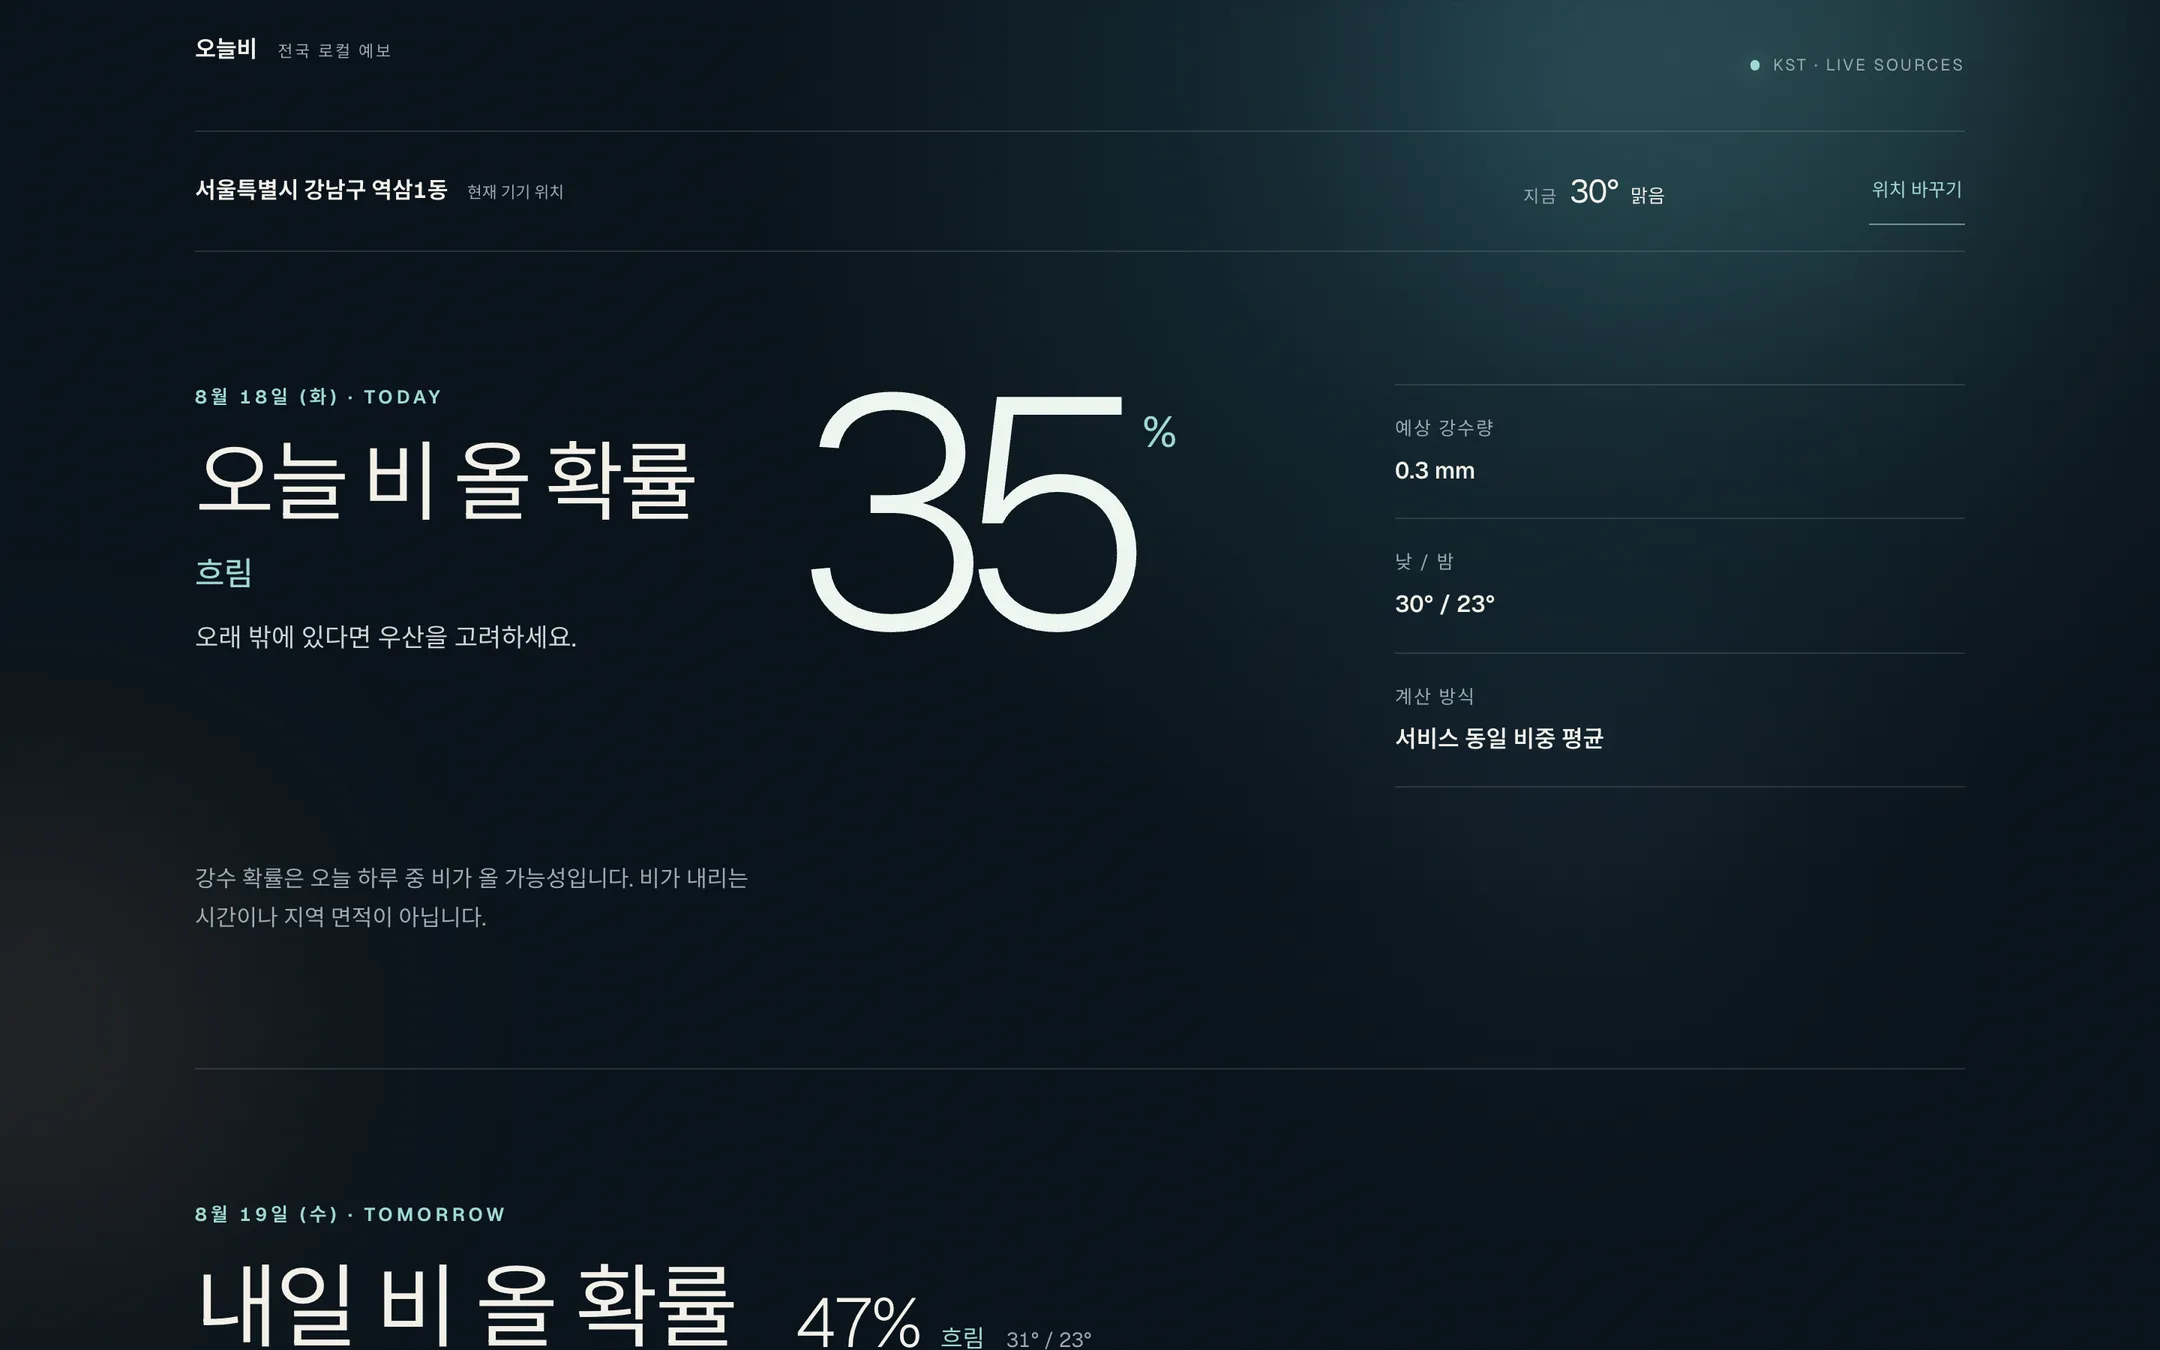
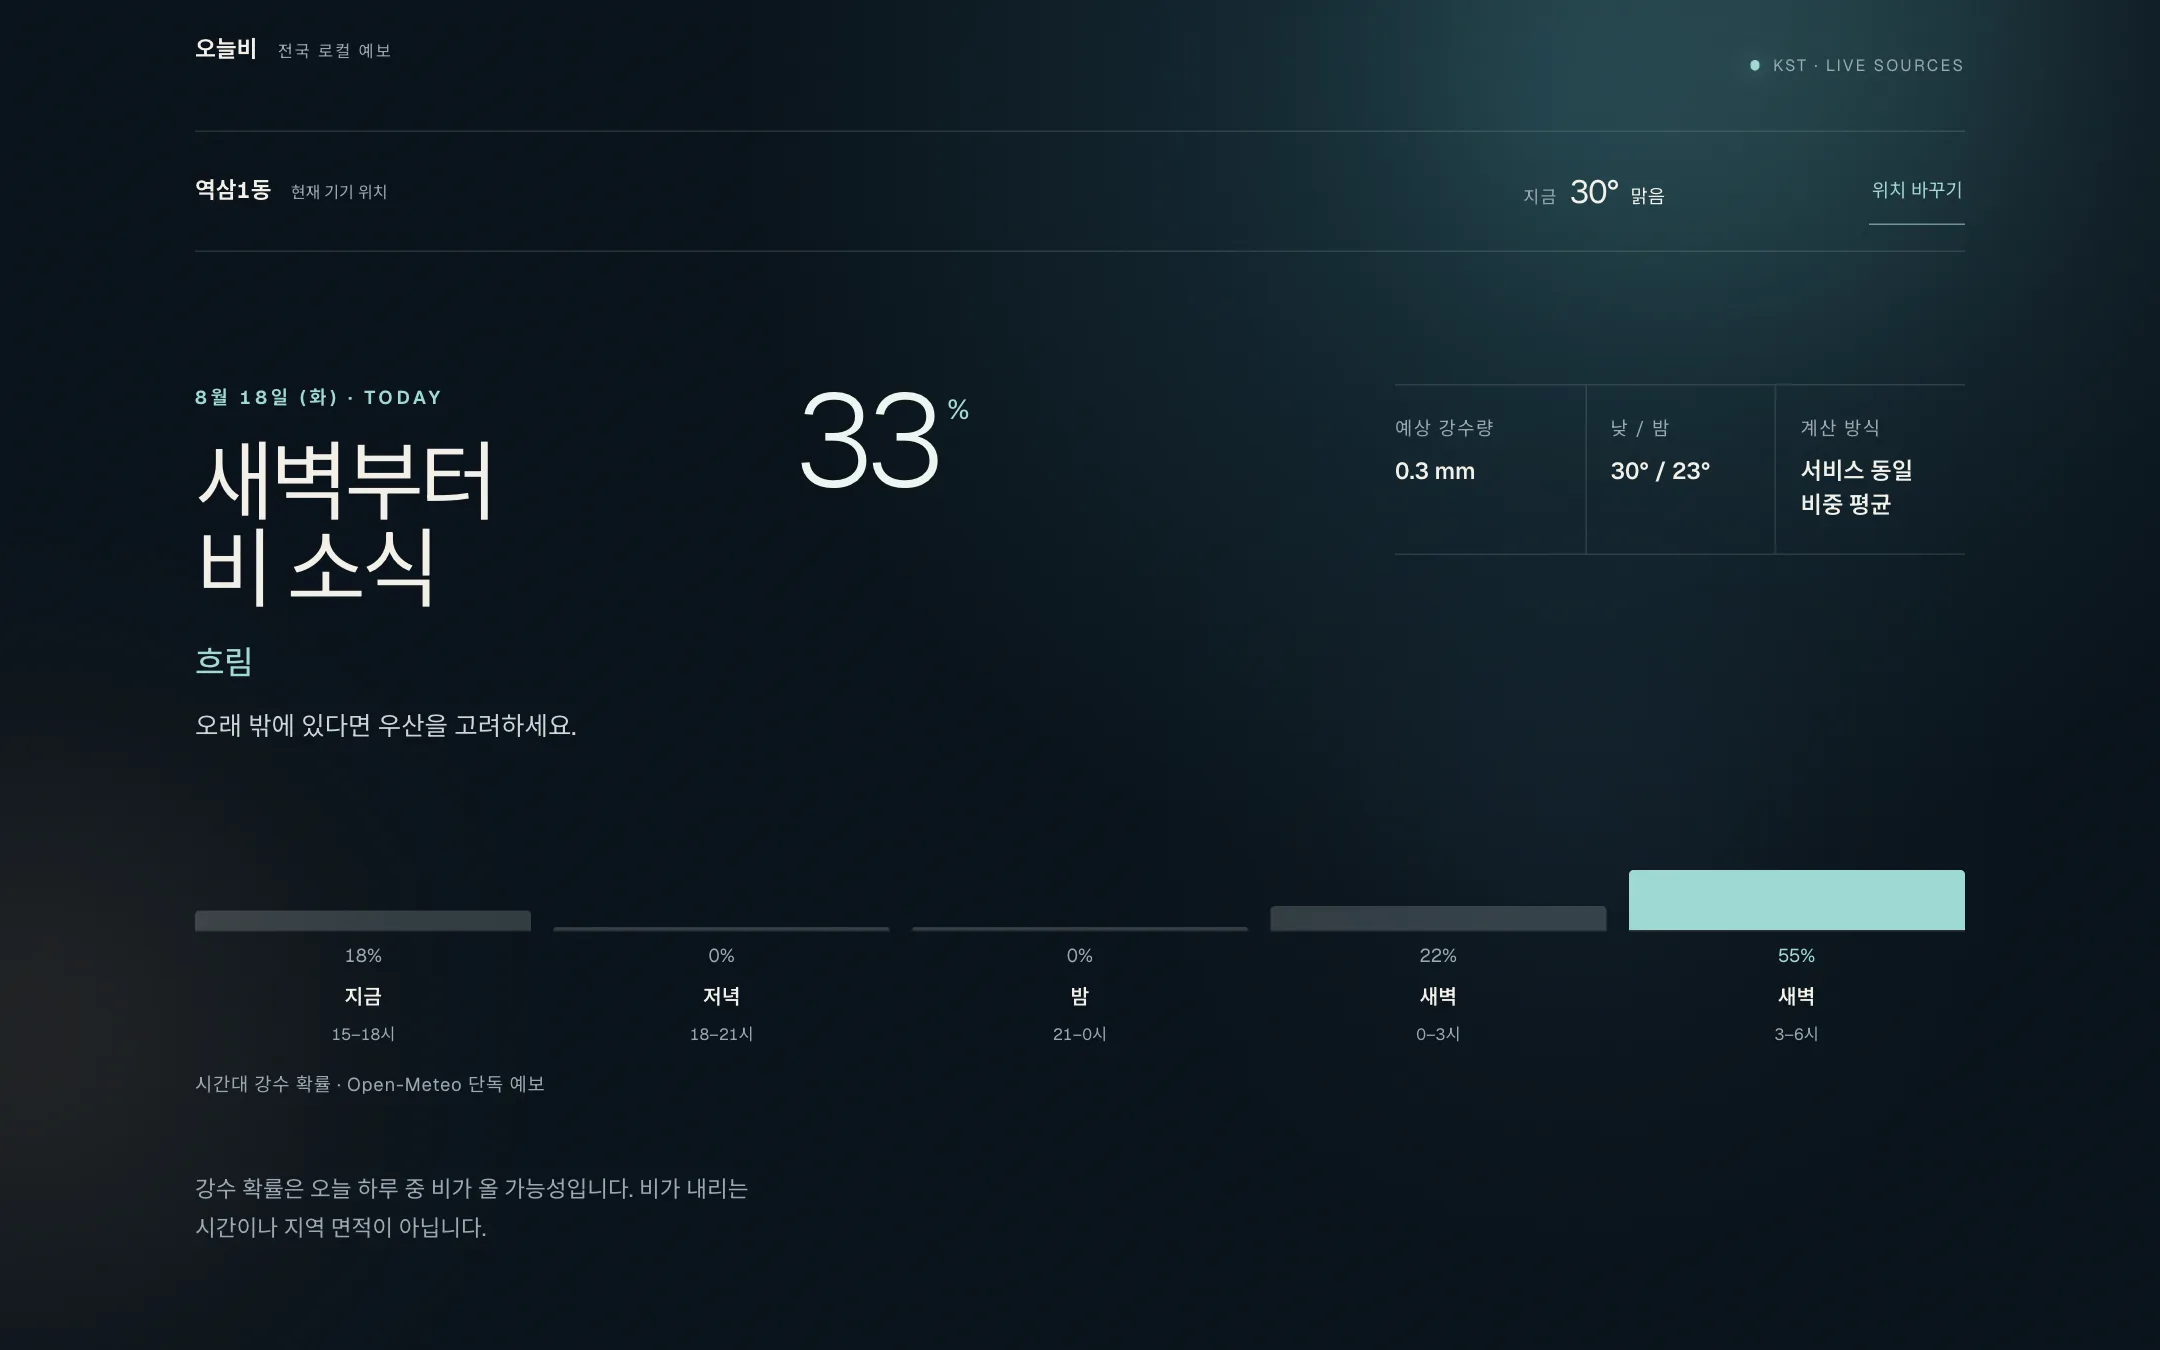
docs: refresh the screenshots and copy for the timeline hero
The two hero screenshots still showed the pre-timeline layout — a full-width
numeral under 오늘 비 올 확률 — so the README advertised a screen the app no
longer has. Recaptured from a production build at the same viewports and
dimensions as the originals, against live Open-Meteo data.

Captured against next start rather than next dev: the dev build paints a
floating dev-tools indicator into the corner, which would have shipped into the
README as though it were part of the interface.

The captions moved with them. The old one described tomorrow sitting beneath
today, which is now below the fold, and said nothing about the strip being a
single provider's series — the one thing about it a reader could otherwise
misread as consensus.

diff --git a/README.md b/README.md
@@ -5,7 +5,7 @@
 [![TypeScript](https://img.shields.io/badge/TypeScript-6-3178C6?logo=typescript&logoColor=white)](https://www.typescriptlang.org/)
 [![Local performance](https://github.com/mhju0/raintoday/actions/workflows/local-performance.yml/badge.svg)](https://github.com/mhju0/raintoday/actions/workflows/local-performance.yml)
 
-오늘비 ("rain today") is a South Korea local rain forecast. It leads with today's rain probability at the user's chosen coordinate, carries tomorrow alongside it, and — when sufficient prospective evidence exists — adjusts each provider's influence on the next-day figure using the Recent Performance Profile from its KMA Station Match.
+오늘비 ("rain today") is a South Korea local rain forecast. It leads with when rain is expected to arrive at the user's chosen coordinate and how likely it is today, carries tomorrow alongside them, and — when sufficient prospective evidence exists — adjusts each provider's influence on the next-day figure using the Recent Performance Profile from its KMA Station Match.
 
 **Live demo:** [raintoday.vercel.app/sky](https://raintoday.vercel.app/sky)
 
@@ -15,9 +15,9 @@ The interface is Korean, for Korean users. The captions below describe what each
 
 *Nothing is requested until the visitor asks. The app never prompts for location automatically or infers it from an IP address.*
 
-![Today's rain probability, with tomorrow beneath it](public/screenshots/forecast.webp)
+![When the rain arrives, with today's probability beside it](public/screenshots/forecast.webp)
 
-*Today leads, because that is the question someone opens a weather app with. Current conditions sit beside the resolved place name; tomorrow keeps its own block, since it is the only horizon the performance weighting applies to.*
+*The heading answers when, not whether — the probability alone cannot tell someone leaving at 09:00 from someone leaving at 21:00. The strip is one provider's hourly series and says so, because the figure beside it is a blend of several and the two must not read as the same claim. A time block nobody published shows a dash, never 0%.*
 
 ![Six-day outlook and the provider comparison](public/screenshots/outlook.webp)
 
@@ -25,7 +25,7 @@ The interface is Korean, for Korean users. The captions below describe what each
 
 <img src="public/screenshots/mobile.webp" alt="The same forecast on a phone" width="320">
 
-*On a phone the answer leads and the location bar stays pinned through the full scroll.*
+*On a phone the strip sits above the detail rows: the answer is the arrival time, so it comes before the millimetres. The location bar stays pinned through the full scroll.*
 
 ## Product contract
 
